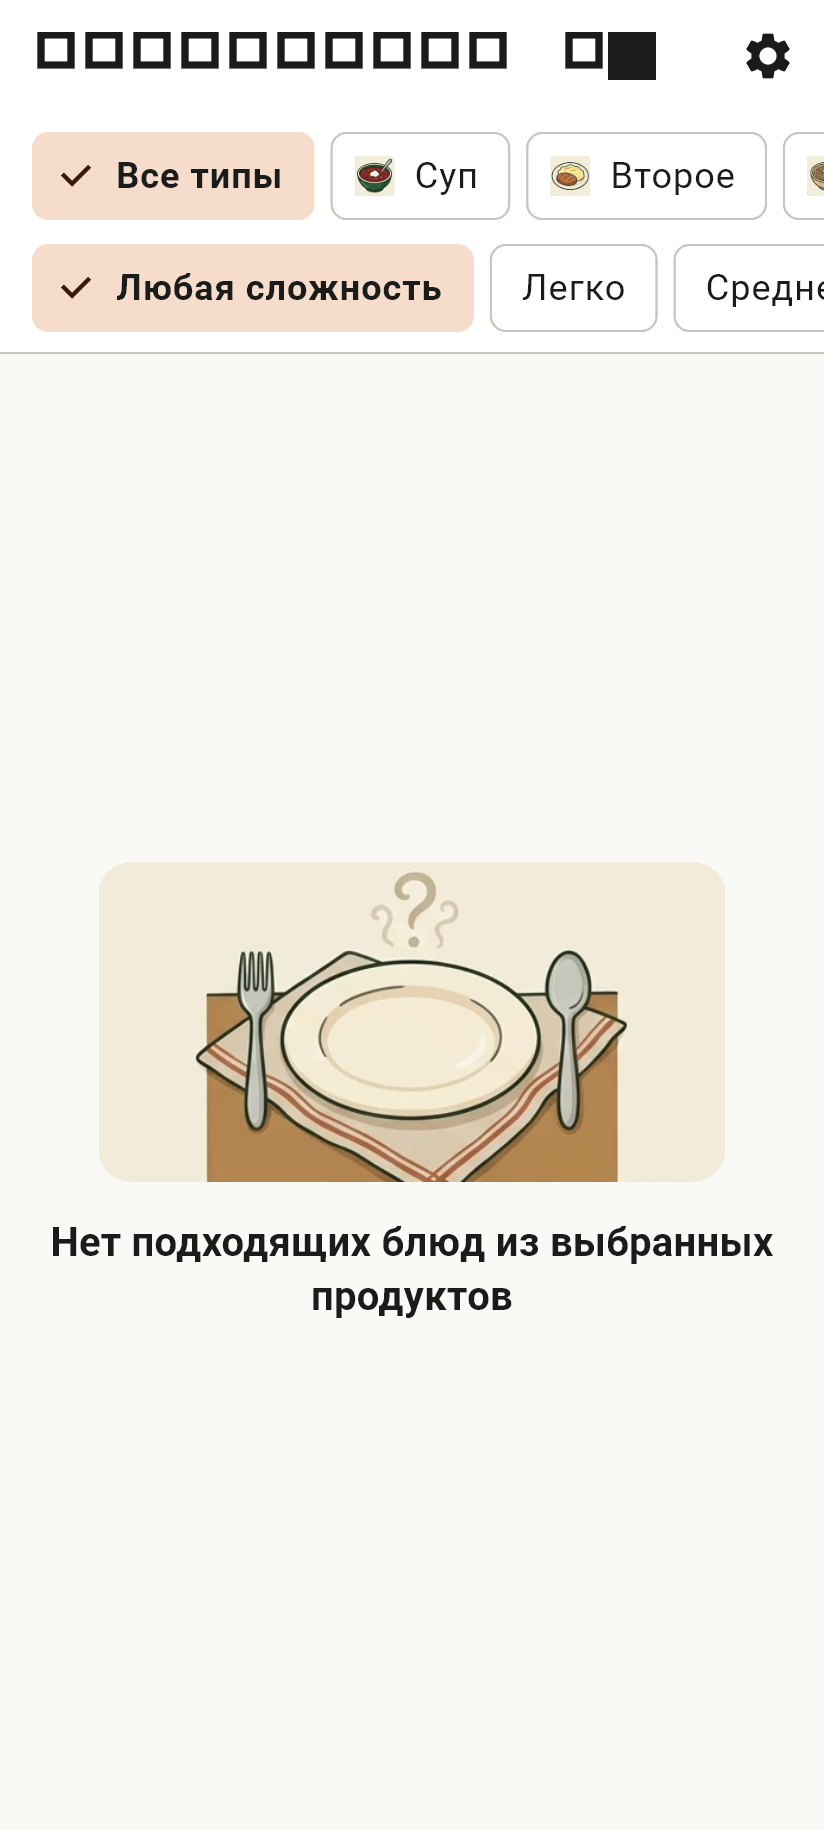
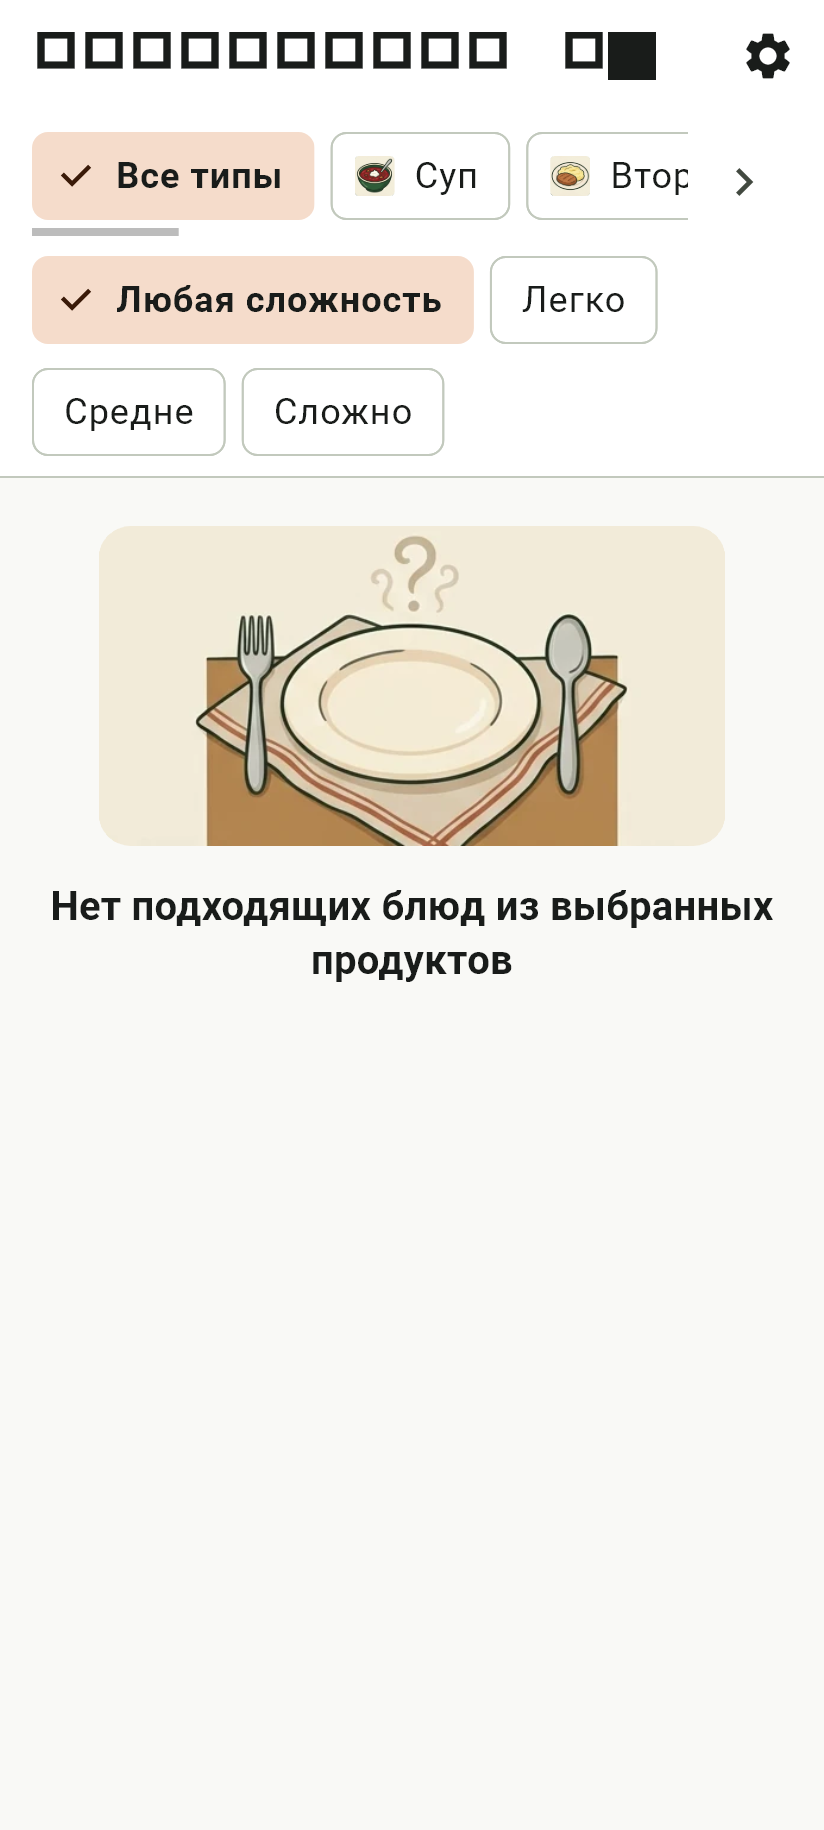
R4-06: Responsive wrap for filter chips in SuggestionsScreen

diff --git a/lib/features/suggestions/suggestions_screen.dart b/lib/features/suggestions/suggestions_screen.dart
@@ -70,10 +70,17 @@ class SuggestionsScreen extends ConsumerStatefulWidget {
 }
 
 class _SuggestionsScreenState extends ConsumerState<SuggestionsScreen> {
+  final ScrollController _dishTypeScrollController = ScrollController();
   DishType? _selectedDishType;
   Difficulty? _selectedDifficulty;
   final Set<String> _rejectedRecipeIds = <String>{};
   final Set<String> _rejectedAiTitles = <String>{};
+
+  @override
+  void dispose() {
+    _dishTypeScrollController.dispose();
+    super.dispose();
+  }
 
   void _rejectRecipe(Recipe recipe) {
     final l10n = AppLocalizations.of(context)!;
@@ -356,23 +363,25 @@ class _SuggestionsScreenState extends ConsumerState<SuggestionsScreen> {
                 if (filteredReady.isEmpty &&
                     filteredAlmostReady.isEmpty &&
                     filteredAiDishes.isEmpty) {
-                  return Center(
-                    child: Padding(
-                      padding: const EdgeInsets.all(24),
-                      child: Column(
-                        mainAxisSize: MainAxisSize.min,
-                        children: [
-                          const AppStateIllustration(
-                            assetPath: AppImages.stateNoDishes,
-                            height: 160,
-                          ),
-                          const SizedBox(height: 16),
-                          Text(
-                            l10n.dishesEmpty,
-                            textAlign: TextAlign.center,
-                            style: theme.textTheme.titleMedium,
-                          ),
-                        ],
+                  return SingleChildScrollView(
+                    child: Center(
+                      child: Padding(
+                        padding: const EdgeInsets.all(24),
+                        child: Column(
+                          mainAxisSize: MainAxisSize.min,
+                          children: [
+                            const AppStateIllustration(
+                              assetPath: AppImages.stateNoDishes,
+                              height: 160,
+                            ),
+                            const SizedBox(height: 16),
+                            Text(
+                              l10n.dishesEmpty,
+                              textAlign: TextAlign.center,
+                              style: theme.textTheme.titleMedium,
+                            ),
+                          ],
+                        ),
                       ),
                     ),
                   );
@@ -676,58 +685,96 @@ class _SuggestionsScreenState extends ConsumerState<SuggestionsScreen> {
       color: theme.colorScheme.surface,
       padding: const EdgeInsets.symmetric(vertical: 8),
       child: Column(
+        crossAxisAlignment: CrossAxisAlignment.start,
         children: [
-          // Dish types row
-          SingleChildScrollView(
-            scrollDirection: Axis.horizontal,
+          // Dish types row with scrollbar and visual scroll indicator
+          Padding(
             padding: const EdgeInsets.symmetric(horizontal: 16),
             child: Row(
               children: [
-                FilterChip(
-                  selected: _selectedDishType == null,
-                  onSelected: (_) {
-                    setState(() => _selectedDishType = null);
-                  },
-                  label: Text(
-                    l10n.dishesFilterAllTypes,
-                    style: theme.textTheme.bodyLarge?.copyWith(
-                      fontWeight: _selectedDishType == null
-                          ? FontWeight.bold
-                          : FontWeight.normal,
-                    ),
-                  ),
-                ),
-                const SizedBox(width: 8),
-                for (final type in DishType.values) ...[
-                  FilterChip(
-                    selected: _selectedDishType == type,
-                    onSelected: (selected) {
-                      setState(() {
-                        _selectedDishType = selected ? type : null;
-                      });
-                    },
-                    avatar: AppDishTypeIcon(dishType: type, size: 20),
-                    label: Text(
-                      _dishTypeName(l10n, type),
-                      style: theme.textTheme.bodyLarge?.copyWith(
-                        fontWeight: _selectedDishType == type
-                            ? FontWeight.bold
-                            : FontWeight.normal,
+                Expanded(
+                  child: Scrollbar(
+                    controller: _dishTypeScrollController,
+                    thumbVisibility: true,
+                    child: SingleChildScrollView(
+                      controller: _dishTypeScrollController,
+                      scrollDirection: Axis.horizontal,
+                      padding: const EdgeInsets.only(bottom: 6),
+                      child: Row(
+                        children: [
+                          FilterChip(
+                            selected: _selectedDishType == null,
+                            onSelected: (_) {
+                              setState(() => _selectedDishType = null);
+                            },
+                            label: Text(
+                              l10n.dishesFilterAllTypes,
+                              style: theme.textTheme.bodyLarge?.copyWith(
+                                fontWeight: _selectedDishType == null
+                                    ? FontWeight.bold
+                                    : FontWeight.normal,
+                              ),
+                            ),
+                          ),
+                          const SizedBox(width: 8),
+                          for (final type in DishType.values) ...[
+                            FilterChip(
+                              selected: _selectedDishType == type,
+                              onSelected: (selected) {
+                                setState(() {
+                                  _selectedDishType = selected ? type : null;
+                                });
+                              },
+                              avatar: AppDishTypeIcon(dishType: type, size: 20),
+                              label: Text(
+                                _dishTypeName(l10n, type),
+                                style: theme.textTheme.bodyLarge?.copyWith(
+                                  fontWeight: _selectedDishType == type
+                                      ? FontWeight.bold
+                                      : FontWeight.normal,
+                                ),
+                              ),
+                            ),
+                            const SizedBox(width: 8),
+                          ],
+                        ],
                       ),
                     ),
                   ),
-                  const SizedBox(width: 8),
-                ],
+                ),
+                const SizedBox(width: 4),
+                IconButton(
+                  icon: const Icon(Icons.chevron_right, size: 28),
+                  tooltip: 'Ещё типы блюд',
+                  padding: EdgeInsets.zero,
+                  constraints: const BoxConstraints(
+                    minWidth: 36,
+                    minHeight: 36,
+                  ),
+                  onPressed: () {
+                    if (_dishTypeScrollController.hasClients) {
+                      final newOffset = _dishTypeScrollController.offset + 140;
+                      final maxOffset =
+                          _dishTypeScrollController.position.maxScrollExtent;
+                      _dishTypeScrollController.animateTo(
+                        newOffset > maxOffset ? maxOffset : newOffset,
+                        duration: const Duration(milliseconds: 300),
+                        curve: Curves.easeOut,
+                      );
+                    }
+                  },
+                ),
               ],
             ),
           ),
           const SizedBox(height: 8),
 
-          // Difficulty row
-          SingleChildScrollView(
-            scrollDirection: Axis.horizontal,
+          // Difficulty wrap (wrapping onto second line)
+          Padding(
             padding: const EdgeInsets.symmetric(horizontal: 16),
-            child: Row(
+            child: Wrap(
+              spacing: 8,
+              runSpacing: 8,
               children: [
                 FilterChip(
                   selected: _selectedDifficulty == null,
@@ -743,8 +790,7 @@ class _SuggestionsScreenState extends ConsumerState<SuggestionsScreen> {
                     ),
                   ),
                 ),
-                const SizedBox(width: 8),
-                for (final diff in Difficulty.values) ...[
+                for (final diff in Difficulty.values)
                   FilterChip(
                     selected: _selectedDifficulty == diff,
                     onSelected: (selected) {
@@ -761,8 +807,6 @@ class _SuggestionsScreenState extends ConsumerState<SuggestionsScreen> {
                       ),
                     ),
                   ),
-                  const SizedBox(width: 8),
-                ],
               ],
             ),
           ),

diff --git a/docs/TASKS.md b/docs/TASKS.md
@@ -217,7 +217,7 @@
 - [x] **R4-03** **Плашка помощника — вверху.** Сейчас плашка стоит после всех групп рецептов, и при длинном каталоге её не видно (на скриншоте `suggestions_error_banner.png` её нет). Перенести над группами, компактно: одна строка причины + кнопка. Перегенерировать скриншот так, чтобы плашка была видна.
 - [x] **R4-04** **Белый текст на розовом.** Плашка «Не хватает: …» нечитаема: в теме не заданы `errorContainer` и `onErrorContainer`, поэтому `ColorScheme` подставляет `error` и белый `onError`. Задать их в обеих темах (светлая: `errorContainer 0xFFFFDAD6`, `onErrorContainer 0xFF410002`; тёмная: `0xFF93000A` / `0xFFFFDAD6`), фон плашки — `errorContainer` без прозрачности. `theme_contrast_test.dart` расширить на все пары `ColorScheme`: primary, secondary, tertiary, error и их container, surface и все surfaceContainer* с onSurface и onSurfaceVariant.
 - [x] **R4-05** **Обрезанный текст в кнопках.** На `ai_diagnostics.png` у кнопки «Выполняется проверка…» срезан низ строки. Тест переполнений это не ловит: обрезка не даёт ошибку RenderFlex. Найти все кнопки и контейнеры с фиксированной высотой (`fixedSize`, `SizedBox(height:)` вокруг текста, `minimumSize` с фиксированной высотой вместе с `maximumSize`) и заменить на минимальную высоту. В `overflow_all_screens_test.dart` добавить проверку: у каждого `RenderParagraph` без `maxLines` высота текста (`textPainter` / `getMaxIntrinsicHeight` для его ширины) не больше его `size.height`, и ни один `RenderParagraph` не выходит за границы ближайшего `RenderClip*` предка.
-- [ ] **R4-06** **Фильтры видны целиком.** В «Блюда» чипы типа и сложности в горизонтальной прокрутке — «Средне» и «Сложно» уходят за край, бабушка их не найдёт. Сделать `Wrap` (переносом на вторую строку) или явный признак прокрутки. Проверить при шрифте 200 %.
+- [x] **R4-06** **Фильтры видны целиком.** В «Блюда» чипы типа и сложности в горизонтальной прокрутке — «Средне» и «Сложно» уходят за край, бабушка их не найдёт. Сделать `Wrap` (переносом на вторую строку) или явный признак прокрутки. Проверить при шрифте 200 %.
 - [ ] **R4-07** **Скриншот диагностики с результатами.** `ai_diagnostics.png` снят до завершения проверки (все пункты пустые). С подставными провайдерами: Wi-Fi ✓, ПК ✓, модель ✓, ключ GigaChat ✗ («не задан»), пробный запрос ✓; 3 записи в журнале.
 - [x] **R4-09** **Порт LM Studio 1235.** На ПК владельца порт 1234 занят, LM Studio работает на **1235**. Автопоиск сейчас проверяет только порт из настроек (по умолчанию 1234) — ПК не найдётся никогда. `PcDiscovery`: проверять порты по очереди — сохранённый, 1234, 1235 (найденный порт сохранять вместе с адресом). `tool/ai_smoke.dart`: порт из аргумента `--port` или переменной `LMSTUDIO_PORT`, по умолчанию пробовать 1234 и 1235. В `docs/INSTALL.md` раздел 2 заменить «кнопка Start Server» на запуск через `tool\start_lmstudio_server.bat` и правило брандмауэра для порта 1235. Тесты: сервер на 1235 → найден; сохранён порт 1235.
 - [x] **R4-10** **Подключение ПК по QR-коду — ПК.** `tool/pair_pc.dart` + `tool/pair_pc.bat` (`dart run tool/pair_pc.dart`), пакет `qr` (чистый Dart) в `dev_dependencies`.

diff --git a/docs/STATUS.md b/docs/STATUS.md
@@ -6,7 +6,7 @@
 
 - Этап: **исправления после проверки R3 (R4-01…R4-08, R4-09…R4-11)** — `docs/TASKS.md`, замечания — `docs/reports/REVIEW_R3_CHECK.md`
 - R3 принят частично (Claude, 2026-11-07): ошибки ИИ, диагностика, автопоиск ПК, автовыбор модели, ввод ключа — сделаны; R3-08 переоткрыт (настоящего прогона с LM Studio не было)
-- Последний зелёный прогон `tool/check.ps1`: 2026-11-07 21:23:46, 488 тестов
+- Последний зелёный прогон `tool/check.ps1`: 2026-11-07 21:32:28, 488 тестов
 - APK R3 (`app-arm64-v8a-release.apk`, 24.9 МБ) можно ставить владельцу для проверки ИИ вживую
 
 ## Проверить владельцу на устройстве
@@ -23,6 +23,7 @@
 
 | Дата | Задача | Результат | Комментарий |
 | --- | --- | --- | --- |
+| 2026-11-07 | R4-06 | Выполнено | Чипы сложности в «Блюда» переведены на `Wrap` (все 4 чипа «Любая сложность», «Легко», «Средне», «Сложно» видны без горизонтальной прокрутки). Для строки типов блюд добавлен постоянный видимый `Scrollbar` и кнопка-стрелка «Ещё типы блюд». Пустое состояние обёрнуто в `SingleChildScrollView` (устранено переполнение RenderFlex при масштабе 200%). 488 тестов |
 | 2026-11-07 | R4-05 | Выполнено | Заменены все фиксированные высоты кнопок (`SizedBox(height: 52/56)`) на `minHeight: 56` и `minimumSize` в `AiDiagnosticsScreen`, `AiSettingsScreen`, `CookingScreen`, `PantryScreen`, `HistoryScreen`, `TastePreferencesScreen`, `BackupScreen`. В `CalendarScreen` адаптированы `daysOfWeekHeight` и базовые размеры шрифтов ячеек сетки календаря под 200% масштаб. В `overflow_all_screens_test.dart` добавлена проверка обрезки текста (`getMaxIntrinsicHeight` <= `size.height` и отсутствие выхода за пределы виджетных клипов `RenderClip*`). 488 тестов |
 | 2026-11-07 | R4-04 | Выполнено | Заданы контрастные пары `errorContainer` и `onErrorContainer` в светлой (`#FFDAD6` / `#410002`) и тёмной (`#93000A` / `#FFDAD6`) темах. Фон плашки «Не хватает: ...» сделан непрозрачным. В `test/theme_contrast_test.dart` добавлены проверки всех пар ColorScheme (primary, secondary, tertiary, error, surfaceContainer* >= 4.5:1). 488 тестов |
 | 2026-11-07 | R4-03 | Выполнено | Плашка ошибки/ненастроенного помощника перенесена в начало списка над группами рецептов, сделана компактной. Перегенерирован `suggestions_error_banner.png` (плашка видна на скриншоте). 486 тестов |
